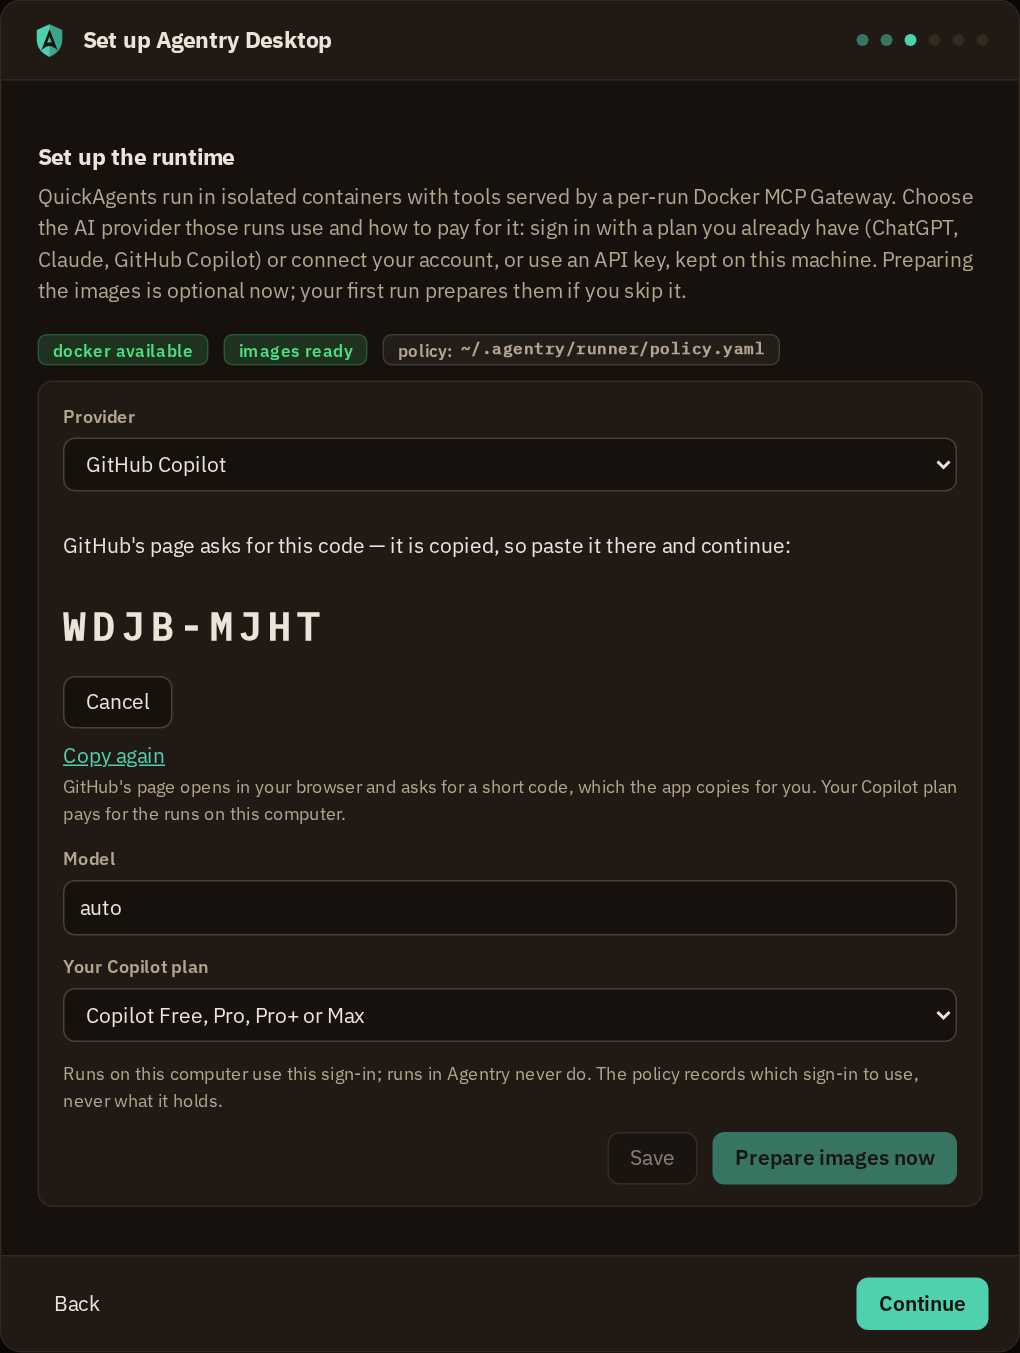
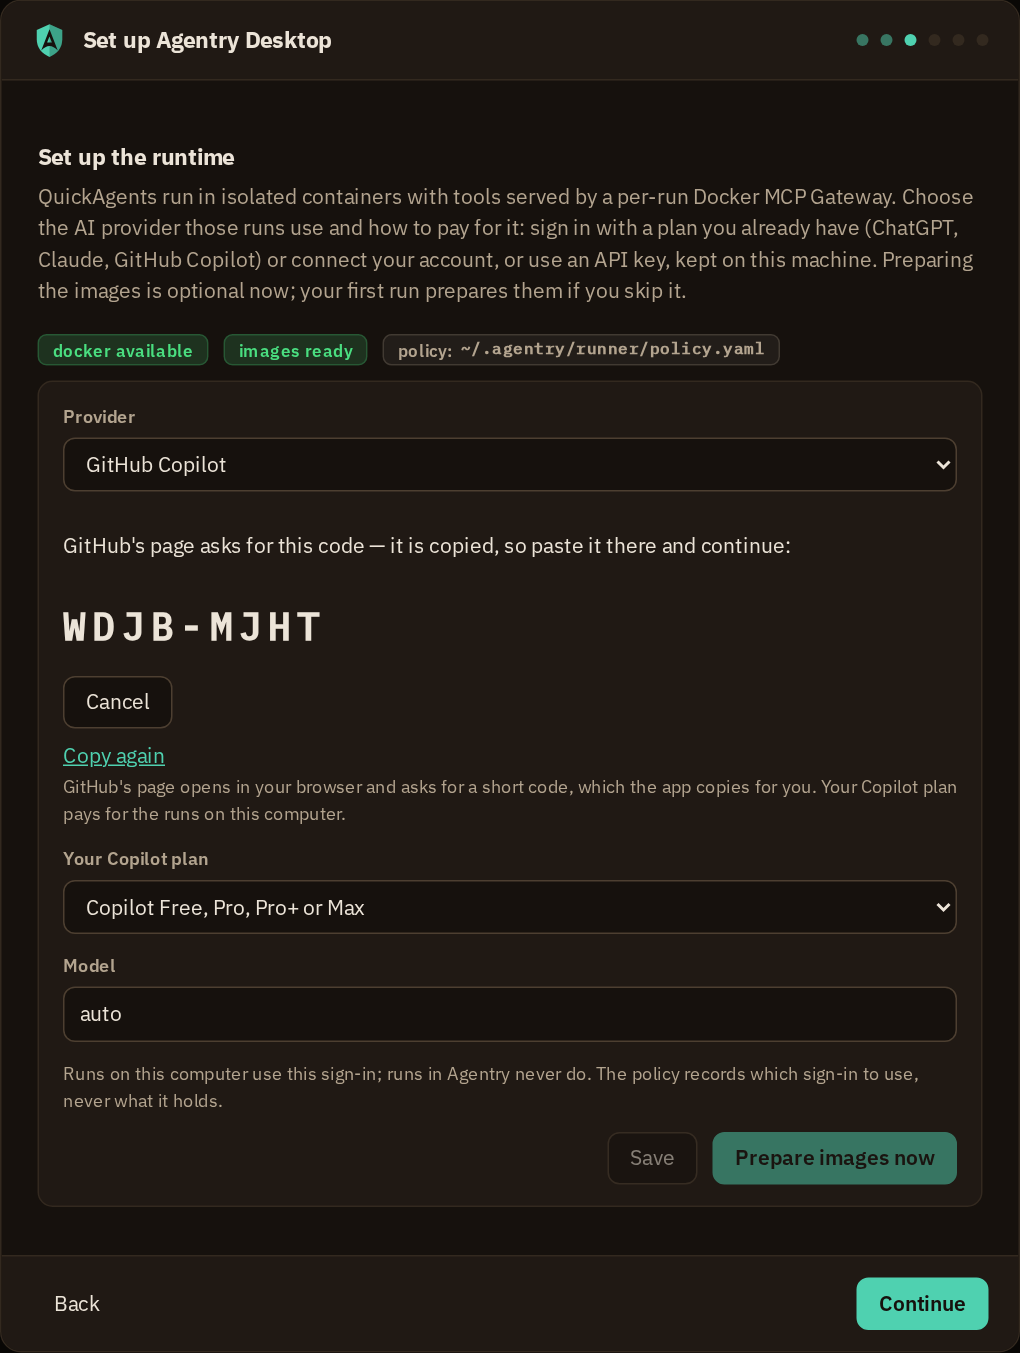
test(model-setup): Copilot's listed models in the harness and live; a refused sign-in in the page's words
- Harness: #2-copilotkept keeps a Copilot sign-in, and the shot
  wizard-runtime-copilot-models clicks "List my plan's models". It expects
  the plan before the model, "auto — Copilot chooses", a model labelled with
  GitHub's name and premium multiplier, and "List again". CopilotModels is
  mocked in both entries that render model setup. The Sign in with GitHub
  shot is re-made, since the plan moved above the model.
- TestLiveCopilotModels (AGENTRY_LIVE_COPILOT=1): a sign-in kept from the
  fake GitHub. The app's CopilotModels runs the real Copilot CLI image on
  this machine's docker, GitHub refuses the fake's token with 401, and the
  app says "sign in again" with no token in the error or the log.
- A list that fails because GitHub refused the sign-in now points at the
  page's own Sign in again. It no longer names the CLI's
  `agentry model-signins add copilot`.

Refs #811

Changed region(s): [[0.0608, 0.6208, 0.2735, 0.7761], [0.3039, 0.745, 0.3647, 0.7761], [0.3039, 0.6519, 0.3647, 0.6829]]

diff --git a/frontend/harness/wizard.tsx b/frontend/harness/wizard.tsx
@@ -63,12 +63,16 @@ const dockerState = ["installable", "groupMissing", "pendingRestart", "manual"].
 // waiting in the browser (the shot clicks Sign in with ChatGPT, which never
 // answers here); #2-copilotcode Sign in with GitHub showing GitHub's code,
 // copied (the shot clicks the button; the code arrives as the event);
-// #2-connected an OpenRouter account connected, its model typed.
-const signInState = ["chatgpt", "claudekept", "waiting", "copilotcode", "connected"].includes(suffix) ? suffix : "";
-const signInProvider = { chatgpt: "openai", waiting: "openai", claudekept: "anthropic", copilotcode: "copilot", connected: "openrouter" }[signInState] ?? "";
-const signInKind = { claudekept: "claude-signin" }[signInState] ?? "";
+// #2-connected an OpenRouter account connected, its model typed;
+// #2-copilotkept a Copilot sign-in kept, its plan's models listed by
+// Copilot CLI once asked (agentry-desktop#811; the shot clicks List).
+const signInState = ["chatgpt", "claudekept", "waiting", "copilotcode", "connected", "copilotkept"].includes(suffix) ? suffix : "";
+const signInProvider = { chatgpt: "openai", waiting: "openai", claudekept: "anthropic", copilotcode: "copilot", connected: "openrouter", copilotkept: "copilot" }[signInState] ?? "";
+const signInKind = { claudekept: "claude-signin", copilotkept: "copilot-signin" }[signInState] ?? "";
 const keptSignIns = signInState === "claudekept"
   ? [{ vendor: "claude", provider: "anthropic", kind: "claude-signin", connected: false, account: "you@example.com (Example Org)", image: true, createdAt: "2026-10-11T12:00:00Z" }]
+  : signInState === "copilotkept"
+    ? [{ vendor: "copilot", provider: "copilot", kind: "copilot-signin", connected: false, account: "octocat", image: true, createdAt: "2026-10-11T12:00:00Z" }]
   : signInState === "connected"
     ? [{ vendor: "openrouter", provider: "openrouter", kind: "api", connected: true, account: "you", image: true, createdAt: "2026-10-11T12:00:00Z" }]
     : [];
@@ -84,7 +88,7 @@ const setup = {
   baseUrl: "", timeoutSeconds: 900, maxTurns: 60,
   ...(signInProvider ? {
     provider: signInProvider, apiKeyKind: signInKind, providerSetUp: signInState !== "chatgpt" && signInState !== "copilotcode",
-    model: { claudekept: "sonnet", connected: "anthropic/claude-sonnet-4.5" }[signInState] ?? "",
+    model: { claudekept: "sonnet", connected: "anthropic/claude-sonnet-4.5", copilotkept: "auto" }[signInState] ?? "",
     apiKeyEnv: "", keysStored: [],
   } : {}),
 };
@@ -177,6 +181,11 @@ g.go = { main: {
     ChooseHarness: async (name: string) => harnesses.map((h) => ({ ...h, chosen: h.name === name, pathFromPolicy: h.name === name })),
     ModelSignIns: async () => keptSignIns,
     ChatGPTModels: async () => ["gpt-5.2", "gpt-5.2-codex", "gpt-5-mini"],
+    CopilotModels: async () => [
+      { id: "claude-sonnet-5.5", name: "Claude Sonnet 5.5", multiplier: 1 },
+      { id: "claude-opus-5.5", name: "Claude Opus 5.5", multiplier: 10 },
+      { id: "gpt-5-mini", name: "GPT-5 mini", multiplier: 0 },
+    ],
     SignInChatGPT: async () => new Promise(() => {}),
     SignInClaude: async () => ({ signedIn: { vendor: "claude", account: "you@example.com", models: [] } }),
     SignInCopilot: async () => {

diff --git a/frontend/tests/modelSetup.test.ts b/frontend/tests/modelSetup.test.ts
@@ -4,7 +4,7 @@
 import { test } from "node:test";
 import assert from "node:assert/strict";
 import {
-  CLAUDE_SIGN_IN_LABEL, PROVIDERS, copilotModelAfterList, copilotModelLabel, copilotOffered, keptFor, keptLine, modelAsk, removeLabel, savedWay, signInSaveHint, startingModel, waysFor,
+  CLAUDE_SIGN_IN_LABEL, PROVIDERS, copilotListFailure, copilotModelAfterList, copilotModelLabel, copilotOffered, keptFor, keptLine, modelAsk, removeLabel, savedWay, signInSaveHint, startingModel, waysFor,
   type KeptSignIn,
 } from "../src/modelSetup.ts";
 
@@ -120,4 +120,11 @@ test("a Copilot plan's listed models are offered, auto first, each once (agentry
   assert.equal(copilotModelLabel("gpt-5-mini", models), "gpt-5-mini", "a multiplier GitHub did not give is not shown as free");
   assert.equal(copilotModelAfterList("gpt-5-mini", ["gpt-5-mini"]), "gpt-5-mini");
   assert.equal(copilotModelAfterList("claude-opus-5.5", ["gpt-5-mini"]), "auto", "a model the plan no longer offers falls back to auto");
+});
+
+test("a Copilot list that fails says why in the page's words (agentry-desktop#811)", () => {
+  const refused = "copilot models: session.create: … 401 Unauthorized (GitHub refused the sign-in's token: sign in again with agentry model-signins add copilot)";
+  assert.equal(copilotListFailure(refused), "GitHub refused the kept sign-in: use Sign in again above, then list again.");
+  assert.doesNotMatch(copilotListFailure(refused), /agentry model-signins/, "the page never sends the person to the CLI");
+  assert.equal(copilotListFailure("docker is not running"), "Could not list your plan's models (docker is not running). Type the model id instead.");
 });

diff --git a/frontend/src/pages/RuntimeSetup.tsx b/frontend/src/pages/RuntimeSetup.tsx
@@ -6,7 +6,7 @@ import { main, run } from "../../wailsjs/go/models";
 import { Button, Card, ErrorBox, Input, Modal, Notice, Select, Spinner } from "../ui";
 import { baseURLFor, takesBaseURL } from "../providerForm";
 import {
-  COPILOT_PLANS, PROVIDERS, copilotModelAfterList, copilotModelLabel, keptFor, modelAsk, providerLabel, savedWay, signInSaveHint, startingModel, waysFor,
+  COPILOT_PLANS, PROVIDERS, copilotListFailure, copilotModelAfterList, copilotModelLabel, keptFor, modelAsk, providerLabel, savedWay, signInSaveHint, startingModel, waysFor,
   type KeptSignIn, type WayId,
 } from "../modelSetup";
 import { KeptSignIns, SignInWay } from "./ModelSignIn";
@@ -460,7 +460,7 @@ export function RuntimeSetup({ heading, intro, advanced = false, onBusy, onOpenP
               )}
               {way === "connect" && <span className="muted small field-hint">Agentry does not list these models: type the id the provider shows. A model that cannot call tools will not work.</span>}
               {way === "copilot" && copilotListError && (
-                <span className="muted small field-hint">Could not list your plan's models ({copilotListError}). Type the model id instead.</span>
+                <span className="muted small field-hint">{copilotListFailure(copilotListError)}</span>
               )}
             </label>
             {way === "copilot" && copilotKept && !copilotKept.broken && (

diff --git a/frontend/src/modelSetup.ts b/frontend/src/modelSetup.ts
@@ -206,6 +206,14 @@ export function copilotModelAfterList(current: string, ids: string[]): string {
   return copilotOffered(ids).includes(current.trim()) ? current.trim() : COPILOT_AUTO;
 }
 
+/** Why a Copilot list failed, said for this page: GitHub refusing the
+ *  sign-in points at the page's own Sign in again, not at the CLI's
+ *  command; anything else is said as it came. */
+export function copilotListFailure(err: string): string {
+  if (/sign in again/i.test(err)) return "GitHub refused the kept sign-in: use Sign in again above, then list again.";
+  return `Could not list your plan's models (${err}). Type the model id instead.`;
+}
+
 /** The Copilot plans, by the name GitHub sells them under; each names the
  *  Copilot API host runs reach. */
 export const COPILOT_PLANS: { id: string; label: string }[] = [

diff --git a/frontend/harness/pages.tsx b/frontend/harness/pages.tsx
@@ -1011,6 +1011,7 @@ g.go = { main: {
       { vendor: "poe", provider: "poe", kind: "api", connected: true, keyExpiresAt: "2026-11-11T00:00:00Z", image: true, createdAt: "2026-10-11T12:00:00Z" },
     ] : []),
     ChatGPTModels: async () => ["gpt-5.2", "gpt-5-mini"],
+    CopilotModels: async () => [{ id: "claude-sonnet-5.5", name: "Claude Sonnet 5.5", multiplier: 1 }],
     RemoveModelSignIn: async () => "revoked at the vendor",
     JevKeyStatus: async () => jevKeyView,
     StoreJevKey: async () => ({ stored: true, source: "keyring", envName: "TYPESAFE_API_KEY", envSet: false, ready: true }),

diff --git a/internal/run/copilot_live_test.go b/internal/run/copilot_live_test.go
@@ -1,0 +1,54 @@
+package run
+
+import (
+	"context"
+	"os"
+	"strings"
+	"testing"
+
+	"github.com/blaktron/agentry-cli/pkg/mcpauth"
+	"github.com/blaktron/agentry-cli/pkg/mcpauth/mcpauthtest"
+	"github.com/blaktron/agentry-cli/pkg/runner/dockerx"
+	"github.com/blaktron/agentry-cli/pkg/runner/modelsignin"
+)
+
+// TestLiveCopilotModels asks the real Copilot CLI image for a plan's
+// models through this app's own CopilotModels (agentry-desktop#811), on
+// this machine's docker, with a sign-in kept from a fake GitHub: Copilot
+// CLI is handed the fake's token over the session, reaches the real
+// api.github.com through the run's proxy, and GitHub refuses it, which
+// the app says as "sign in again". Without an account that is as far as
+// a list goes; the list itself is M11's (agentry-cli#744). It may build
+// the runner and Copilot CLI images, so it runs only when asked:
+// AGENTRY_LIVE_COPILOT=1 on a host with docker and the network.
+func TestLiveCopilotModels(t *testing.T) {
+	if os.Getenv("AGENTRY_LIVE_COPILOT") != "1" {
+		t.Skip("drives the real Copilot CLI image: set AGENTRY_LIVE_COPILOT=1")
+	}
+	if err := dockerx.New().Available(t.Context()); err != nil {
+		t.Skipf("no docker: %v", err)
+	}
+	signInFixture(t)
+	t.Setenv("AGENTRY_GITHUB_APP_CLIENT_ID", mcpauthtest.GitHubClientID)
+	v := mcpauthtest.NewGitHub(t)
+	old := githubEndpoints
+	githubEndpoints = func(f *mcpauth.GitHub) {
+		fake := v.Flow()
+		present := f.Present
+		*f = fake
+		f.Present = present
+	}
+	t.Cleanup(func() { githubEndpoints = old })
+	t.Cleanup(modelsignin.RegisterVendor(modelsignin.Copilot, modelsignin.CopilotVendor{Flow: v.Flow()}))
+	var b signInPerson
+	if _, err := SignInCopilot(context.Background(), b.ui(nil), false); err != nil {
+		t.Fatal(err)
+	}
+	var log strings.Builder
+	models, err := CopilotModels(t.Context(), "individual", &log)
+	t.Logf("models %v, err %v\nlog: %s", models, err, log.String())
+	if err == nil || !strings.Contains(err.Error(), "sign in again") {
+		t.Fatalf("want GitHub to refuse the fake's token, got %v", err)
+	}
+	noSecret(t, []any{err.Error(), log.String()}, v.AccessPrefix, v.RefreshPrefix)
+}
